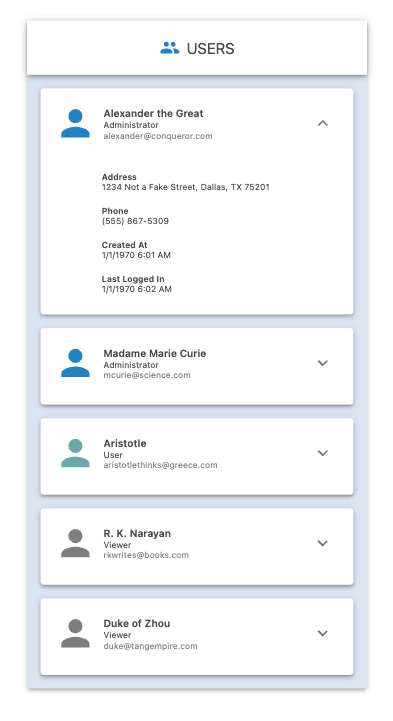
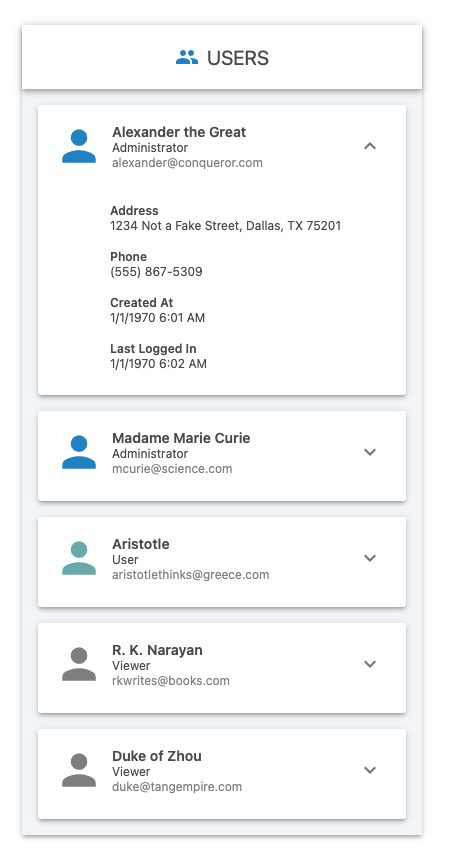
updated borderRadius and screenshot

Changed region(s): [[0.0305, 0.0305, 0.9466, 0.9764], [0.7939, 0.1526, 0.8244, 0.1831]]

diff --git a/components/Users/UserCard.tsx b/components/Users/UserCard.tsx
@@ -53,7 +53,7 @@ export const UserCard: React.FC<UserCardProps> = ({ ...props }) => {
   const userCardDetailProps = { street: props.street, city: props.city, state: props.state, zip: props.zip, phone: props.phone, createdAt: props.createdAt, lastLoggedIn: props.lastLoggedIn };
 
   return (
-    <Card elevation={3} sx={{ ml: 2, mr: 2, mt: 2, '&:last-child': { mb: 2 } }}>
+    <Card elevation={3} sx={{ ml: 2, mr: 2, mt: 2, '&:last-child': { mb: 2 }, borderRadius: '3px' }}>
       <CardContent sx={{ display: 'flex', flexDirection: 'row', alignItems: 'center', justifyContent: 'space-between' }}>
         {props.role === 'Administrator' && <Image src={AdministratorSVG} alt="user" height={50} />}
         {props.role === 'User' && <Image src={UserSVG} alt="user" height={50} />}

diff --git a/components/Users/UserContainer.tsx b/components/Users/UserContainer.tsx
@@ -18,7 +18,7 @@ export default function UserContainer() {
 
   return (
     <ThemeProvider theme={theme}>
-      <Paper elevation={3} sx={{ height: '100%', width: { xs: '300px', sm: '400px' }, background: '#f1f5f8', display: 'flex', flexDirection: 'column', justifyContent: 'center' }}>
+      <Paper elevation={3} sx={{ height: '100%', width: { xs: '300px', sm: '400px' }, background: '#f1f5f8', display: 'flex', flexDirection: 'column', justifyContent: 'center', borderRadius: '0px' }}>
         <UserHeader header="Users" />
         {isLoading ? <CircularProgress sx={{ margin: '20px auto' }} /> : Array.from(users).map((user, index) => <UserCard key={index} {...user} />)}
       </Paper>

diff --git a/components/Users/UserHeader.tsx b/components/Users/UserHeader.tsx
@@ -12,7 +12,7 @@ interface UserHeaderProps {
 
 export const UserHeader: React.FC<UserHeaderProps> = ({ header }) => {
   return (
-    <AppBar position="static" style={{ background: '#FFFFFF', display: 'flex', justifyContent: 'center', alignItems: 'center' }}>
+    <AppBar position="static" style={{ background: '#FFFFFF', display: 'flex', justifyContent: 'center', alignItems: 'center', borderRadius: '0px' }}>
       <Toolbar>
         <Stack direction="row" justifyContent="center" alignItems="center">
           {header.toLowerCase() === 'users' && <Image src={GroupSVG} alt="group" />}

diff --git a/components/Format/formatPhoneNumber.ts b/components/Format/formatPhoneNumber.ts
@@ -6,6 +6,7 @@ export function formatPhoneNumber(phoneNumberString: string) {
     throw new Error('Please enter a 10-digit phone number');
   }
 
+  // create 3 groups, first group has 3 digits, second group has 3 digits, third group has 4 digits
   var match = phoneNumberString.match(/^(\d{3})(\d{3})(\d{4})$/);
   if (match) {
     return '(' + match[1] + ') ' + match[2] + '-' + match[3];
